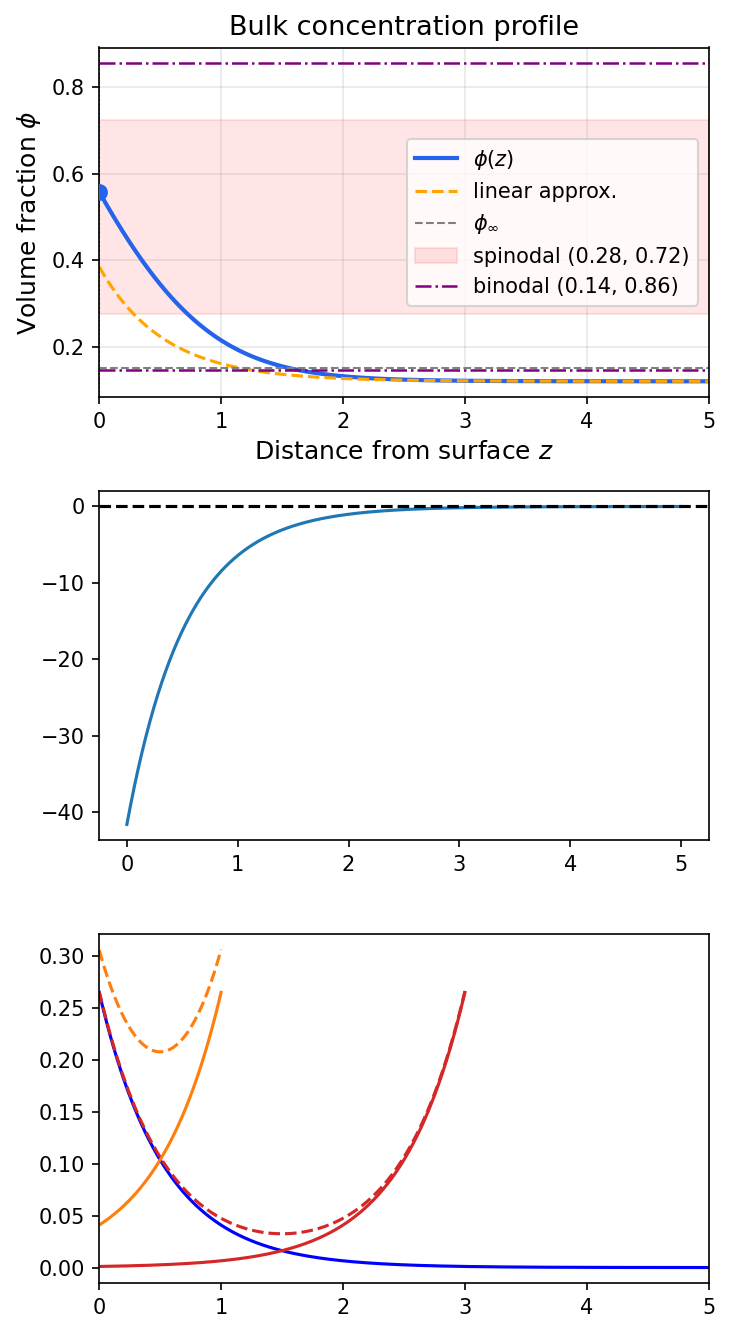
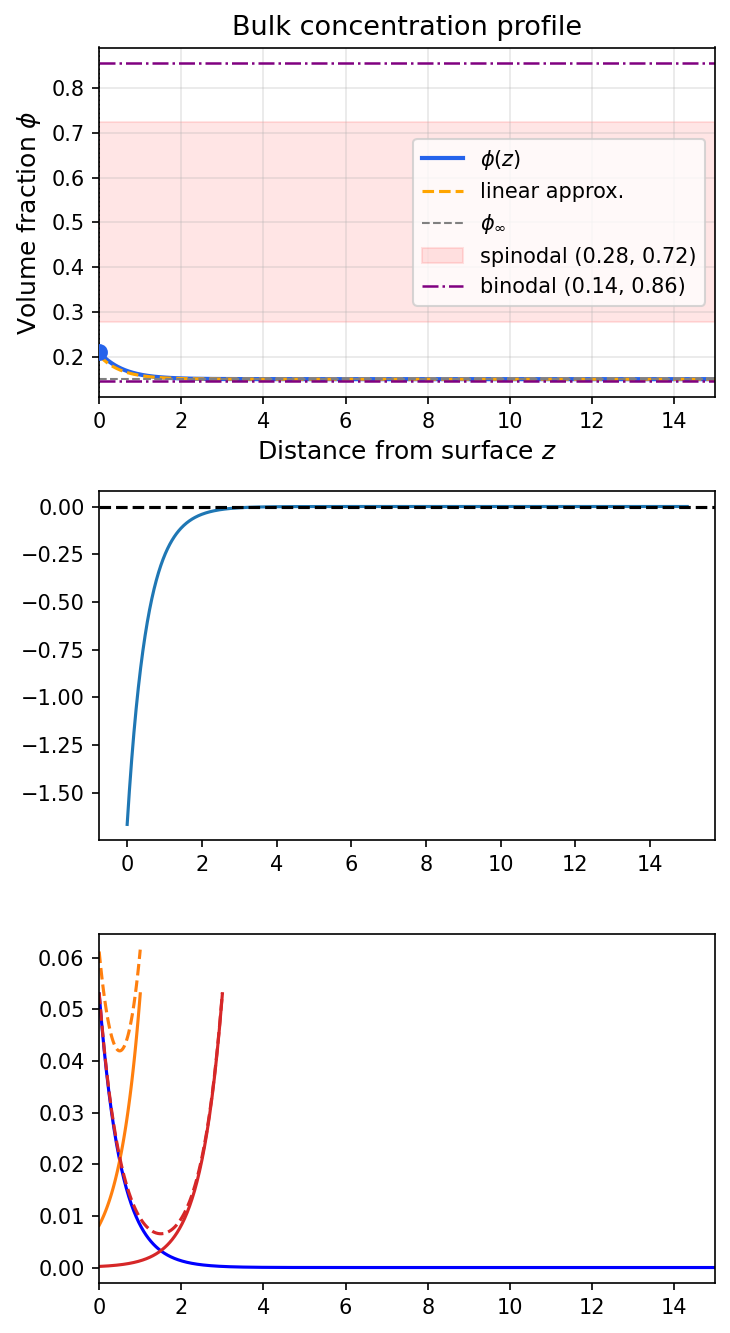
equilibrium distribution and phi_probe averaged for the linear approx

diff --git a/viz_util/fisher_rate_from_profile.py b/viz_util/fisher_rate_from_profile.py
@@ -1,0 +1,117 @@
+"""
+Polymer prewetting as a concentration sensor 
+
+A. linear approximation (analytical)
+    1. plotting the equilibrium distance distribution between poly beads
+    2. integrating over it for \psi_probe
+    3. computing the fisher rate from \psi_probe
+
+B. nonlinear profile from solver
+    4. get free energy profile from numerical solution of \psi(z), Derjaguin
+    5. repeat 1-3
+"""
+
+import sys, os
+sys.path.insert(0, os.path.join(os.path.dirname(__file__), ".."))
+import numpy as np
+import matplotlib
+matplotlib.use("Agg")
+import matplotlib.pyplot as plt
+
+from viz_util.bvp_solver import (
+    Parameters, solve_auto, d2fb_dphi2, dfb_dphi, fb, compute_spinodal,
+    compute_binodal, psi_linear, F, compute_mu_inf
+)
+
+# ── Parameters ────────────────────────────────────────────────────────────
+p = Parameters(
+    nb=1.0,
+    chi_b=2.5,     
+    omega_b=-0.2,   
+    kappa=1,
+    phi_inf=0.1,   
+    L=20.0,
+    eps=1e-6,
+    R=2.0,
+    conserve_volume=True,
+    parallel_plates = False
+)
+
+# polymer params
+s = 100   # inter-bead distance
+a = 1   # Kuhn length
+
+# ── Equilibrium distance distribution ─────────────────────────────────────
+nsteps = 1000
+r = np.linspace(0, p.L, nsteps)     # distance from center
+d = np.linspace(0, p.L-p.R, nsteps) # distance from surface
+
+def compute_P_eq(p: Parameters, d: np.ndarray) -> np.ndarray:
+    """Compute the equilibrium distribution of bead separation on a polymer"""
+
+    sol = solve_auto(p, verbose=False)
+    
+    # profile
+    phi = sol.sol(d)[0]
+    psi_lin = psi_linear(d, p)[0]
+
+    # potential
+    U_lin = 4 * np.pi * p.R**2 * p.omega_b * psi_lin
+
+    # equilibrium distribution
+    P_eq_unnorm = (d+p.R)**2 * np.exp(-3*(d+p.R)**2/(2*s*a**2) - U_lin)
+    P_eq = P_eq_unnorm / np.sum(P_eq_unnorm)
+
+    # concentration at the probe as a function of distance
+    phi_boundary = phi[-1]
+    Phi_d = phi_boundary + psi_lin[0] + psi_lin 
+
+    return P_eq, Phi_d, U_lin
+
+
+# ── Mean probe concentration varying total phi volume ─────────────────────
+n_params = 50
+phi_probe = np.zeros(n_params)
+phi_inf_vals = np.linspace(0.001, 0.15, n_params)
+dr = (p.L-p.R) / nsteps
+
+for i, _phi in enumerate(phi_inf_vals):
+    p.phi_inf = _phi
+
+    P_eq, Phi_d, U_lin = compute_P_eq(p, d)
+
+    phi_probe[i] = np.sum(P_eq * Phi_d)
+
+
+# ── Plot ──────────────────────────────────────────────────────────────────
+fig, axes = plt.subplots(2,1, figsize=(5, 5.0))
+
+p.phi_inf = 0.1
+P_eq, Phi_d, U_lin = compute_P_eq(p, d)
+
+# Left: concentration profile
+axl = axes[0]
+axl.set_ylabel(r"$U(d)$", color="black")
+axl.plot(d, U_lin, color="black", lw=2, label=r"$U(d)$")
+axl.set_xlabel("d (distance between surfaces)")
+axl.set_ylim(-1.10*np.max(np.abs(U_lin)), 1.10*np.max(np.abs(U_lin)))
+
+axr = axl.twinx()
+axr.set_ylabel(r"$P_{eq}(d)$", color="#2563EB")
+axr.plot(d, P_eq, color="#2563EB", lw=2, label=r"$\psi(d)$")
+axr.set_ylim(-1.10*np.max(P_eq), 1.10*np.max(P_eq))
+
+axl = axes[1]
+axl.set_ylabel(r"$\phi_{probe}$", color="black")
+axl.plot(phi_inf_vals, phi_probe, color="black", lw=2, label="Linear")
+axl.plot(phi_inf_vals, phi_inf_vals, color="black", lw=1, linestyle="dashed")
+axl.set_xlabel(r"$\phi_{TF}$ (total volume fraction)", fontsize=12)
+# axl.set_ylim(-1.10*np.max(np.abs(U_lin)), 1.10*np.max(np.abs(U_lin)))
+
+
+# ── Save ──────────────────────────────────────────────────────────────────
+fig.tight_layout()
+out = "media/figures/20260516/fisher_rate_from_profile.png"
+os.makedirs(os.path.dirname(out), exist_ok=True)
+fig.savefig(out, dpi=150, bbox_inches="tight")
+print(f"\nSaved figure → {out}")

diff --git a/viz_util/bvp_pair_potential.py b/viz_util/bvp_pair_potential.py
@@ -19,10 +19,10 @@ from viz_util.bvp_solver import (
 p = Parameters(
     nb=1.0,
     chi_b=2.5,      # moderate Flory-Huggins bulk interaction (above spinodal threshold)
-    omega_b=-0.5,   # surface attraction to bulk species
+    omega_b=-0.1,   # surface attraction to bulk species
     kappa=1,
     phi_inf=0.15,    # far-field volume fraction (below spinodal)
-    L=5.0,
+    L=15.0,
     eps = 1e-6,
     R=5,
     conserve_volume=True
